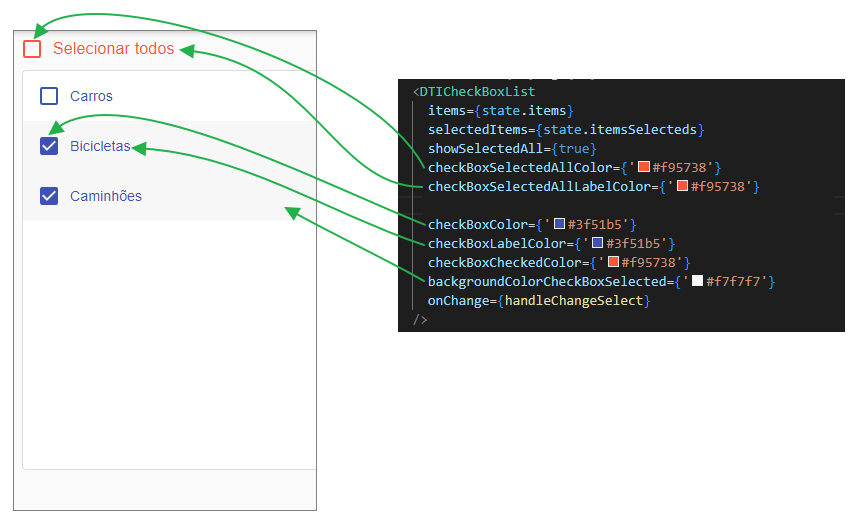
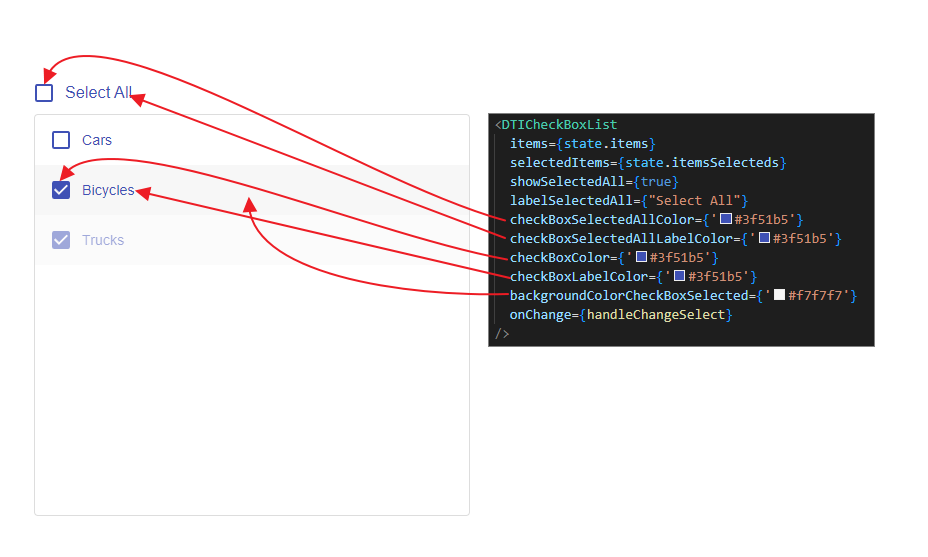
Added disabled option item

diff --git a/example/src/App.js b/example/src/App.js
@@ -10,21 +10,24 @@ import DTICheckBoxList from 'react-dticheckboxlist';
 
 const App = () => {
   const items =
-    [{
-      "id": "1",
-      "label": "Carros",
-    },
+  [{
+    "id": "1",
+    "label": "Cars",
+    "disabled": false,
+  },
 
-    {
-      "id": "2",
-      "label": "Bicicletas",
-    },
+  {
+    "id": "2",
+    "label": "Bicycles",
+    "disabled": false,
+  },
 
-    {
-      "id": "3",
-      "label": "Caminhões",
-    }
-    ]
+  {
+    "id": "3",
+    "label": "Trucks",
+    "disabled": true,
+  }
+  ]
 
   const itemsSelecteds =
     [
@@ -38,52 +41,55 @@ const App = () => {
       }
     ]
 
-    const [state, setState] = useState({
-      items: items,
-      itemsSelecteds: itemsSelecteds,
-    });
+  const [state, setState] = useState({
+    items: items,
+    itemsSelecteds: itemsSelecteds,
+  });
 
-    const handleChangeSelect = (prop) => {
-      setState({
-        ...state,
-        itemsSelecteds: prop,
-      });
-    };
+  const handleChangeSelect = (prop) => {
+
+    console.log(prop);
+
+    setState({
+      ...state,
+      itemsSelecteds: prop,
+    });
+  };
 
   return (
-  <Container>
-  <AppBar position="static">
-    <Container maxWidth="xl">
-      <Toolbar disableGutters>
-      <Typography
-        variant="h6"
+    <Container>
+      <AppBar position="static">
+        <Container maxWidth="xl">
+          <Toolbar disableGutters>
+            <Typography
+              variant="h6"
+            >
+              DTICheckBoxList
+            </Typography>
+          </Toolbar>
+        </Container>
+      </AppBar>
+      <Box
+        component="form"
       >
-        DTICheckBoxList
-      </Typography>
-      </Toolbar>
-    </Container>
-  </AppBar>
-  <Box
-    component="form"
-  >
-    <Container maxWidth="xl">
-      <Grid item xs={12} lg={12}>
-        <DTICheckBoxList
-          items={state.items}
-          selectedItems={state.itemsSelecteds}
-          showSelectedAll={true}
-          checkBoxSelectedAllColor={'#3f51b5'}
-          checkBoxSelectedAllLabelColor={'#3f51b5'}
-          checkBoxColor={'#3f51b5'}
-          checkBoxLabelColor={'#3f51b5'}
-          checkBoxCheckedColor={'#f95738'}
-          backgroundColorCheckBoxSelected={'#f7f7f7'}
-          onChange={handleChangeSelect}
-        />
-      </Grid>
-    </Container>
-  </Box>
-</Container>)
+        <Container maxWidth="xl">
+          <Grid item xs={12} lg={12}>
+            <DTICheckBoxList
+              items={state.items}
+              selectedItems={state.itemsSelecteds}
+              showSelectedAll={true}
+              labelSelectedAll={"Select All"}
+              checkBoxSelectedAllColor={'#3f51b5'}
+              checkBoxSelectedAllLabelColor={'#3f51b5'}
+              checkBoxColor={'#3f51b5'}
+              checkBoxLabelColor={'#3f51b5'}
+              backgroundColorCheckBoxSelected={'#f7f7f7'}
+              onChange={handleChangeSelect}
+            />
+          </Grid>
+        </Container>
+      </Box>
+    </Container>)
 }
 
 export default App

diff --git a/src/DTICheckBoxList.jsx b/src/DTICheckBoxList.jsx
@@ -63,27 +63,23 @@ const DTICheckBoxList = (props) => {
 
   const checkAllhandleChange = (event) => {
     const checked = event.target.checked
-    const newCheckedItem = [...props.selectedItems]
+    const newSelectedItems = [...props.selectedItems]
 
-    if (checked) {
-      props.items.forEach((dataItem) => {
-        let exist = false
+    props.items.forEach((dataItem) => {
+      if (dataItem.disabled) return
 
-        newCheckedItem.forEach(() => {
-          if (!exist) {
-            exist = newCheckedItem.some((v) => v.id === dataItem.id)
-          }
-        })
-
-        if (!exist) {
-          newCheckedItem.push(dataItem)
+      if (checked) {
+        if (!newSelectedItems.some((v) => v.id === dataItem.id)) {
+          newSelectedItems.push({ id: dataItem.id })
         }
-      })
-    } else {
-      newCheckedItem.splice(0)
-    }
+      } else {
+        var index = newSelectedItems.findIndex((x) => x.id === dataItem.id)
 
-    props.onChange(newCheckedItem)
+        newSelectedItems.splice(index, 1)
+      }
+    })
+
+    props.onChange(newSelectedItems)
 
     setStateCheckedAll(checked)
   }
@@ -105,7 +101,7 @@ const DTICheckBoxList = (props) => {
               }}
             />
           }
-          label='Selecionar todos'
+          label={props.labelSelectedAll}
         />
       )}
       <Paper className={classes.paper}>
@@ -119,6 +115,7 @@ const DTICheckBoxList = (props) => {
               <ListItem
                 key={index}
                 role='listitem'
+                disabled={data.disabled}
                 className={classes.checkBoxItem}
                 style={{
                   backgroundColor: checked
@@ -130,10 +127,12 @@ const DTICheckBoxList = (props) => {
               >
                 <ListItemIcon className={classes.listItemIcon}>
                   <Checkbox
+                    id={data.id}
                     classes={{ checked: props.checkBoxCheckedColor }}
                     checked={checked}
                     tabIndex={-1}
                     disableRipple={false}
+                    disabled
                     inputProps={{ 'aria-labelledby': labelId }}
                     style={{
                       color: props.checkBoxColor

diff --git a/README.md b/README.md
@@ -1,6 +1,6 @@
 # react-dticheckboxlist
 
-> Componente React de lista com checkbox
+> React list component with checkbox
 
 [![NPM](https://img.shields.io/npm/v/react-dticheckboxlist.svg)](https://www.npmjs.com/package/react-dticheckboxlist) [![JavaScript Style Guide](https://img.shields.io/badge/code_style-standard-brightgreen.svg)](https://standardjs.com)
 
@@ -13,7 +13,7 @@ npm install --save react-dticheckboxlist
     <img alt="read before" src="screenshot3.png" />
 </p>
 
-## Código de exemplo de como usar
+## Example code of how to use
 
 ```jsx
 import React, { Component } from 'react'
@@ -23,17 +23,20 @@ class Example extends Component {
   const items =
     [{
       "id": "1",
-      "label": "Carros",
+      "label": "Cars",
+      "disabled": false,
     },
 
     {
       "id": "2",
-      "label": "Bicicletas",
+      "label": "Bicycles",
+      "disabled": false,
     },
 
     {
       "id": "3",
-      "label": "Caminhões",
+      "label": "Trucks",
+      "disabled": true,
     }
     ]
 
@@ -64,21 +67,21 @@ class Example extends Component {
   render() {
     return
     <DTICheckBoxList
-          items={state.items}
-          selectedItems={state.itemsSelecteds}
-          showSelectedAll={true}
-          checkBoxSelectedAllColor={'#3f51b5'}
-          checkBoxSelectedAllLabelColor={'#3f51b5'}
-          checkBoxColor={'#3f51b5'}
-          checkBoxLabelColor={'#3f51b5'}
-          checkBoxCheckedColor={'#f95738'}
-          backgroundColorCheckBoxSelected={'#f7f7f7'}
-          onChange={handleChangeSelect}
+        items={state.items}
+        selectedItems={state.itemsSelecteds}
+        showSelectedAll={true}
+        labelSelectedAll={"Select All"}
+        checkBoxSelectedAllColor={'#3f51b5'}
+        checkBoxSelectedAllLabelColor={'#3f51b5'}
+        checkBoxColor={'#3f51b5'}
+        checkBoxLabelColor={'#3f51b5'}
+        backgroundColorCheckBoxSelected={'#f7f7f7'}
+        onChange={handleChangeSelect}
         />
   }
 }
 ```
-## Esquema de cores
+## Color Scheme
 <p align="center">
     <img alt="read before" src="screenshot2.png" />
 </p>
